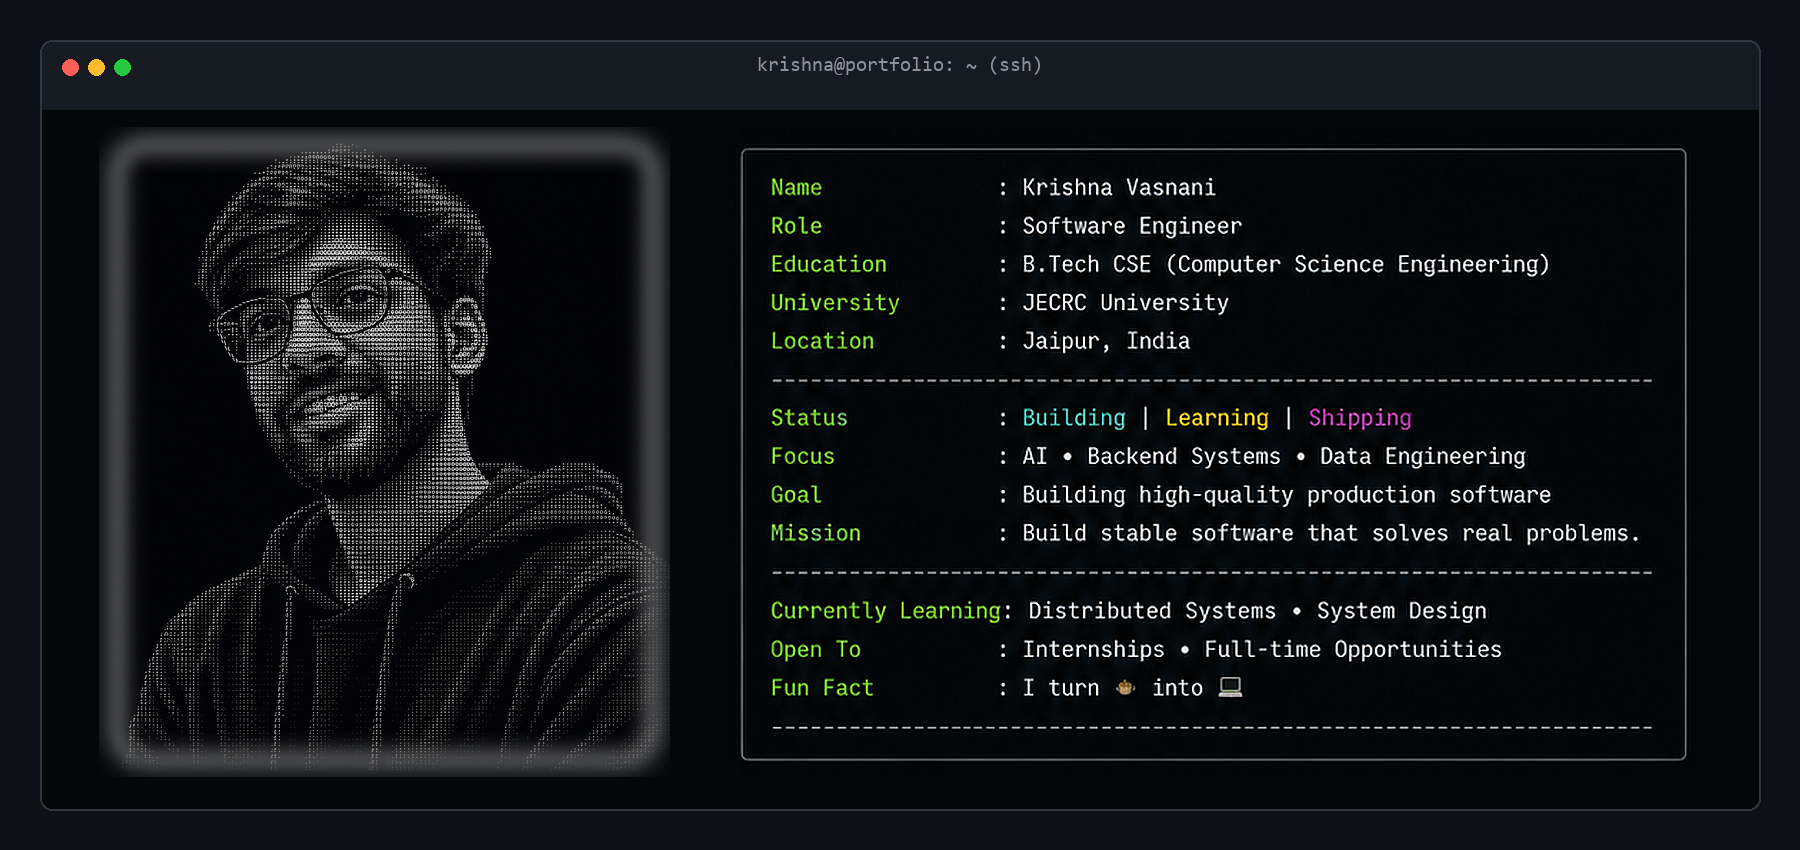
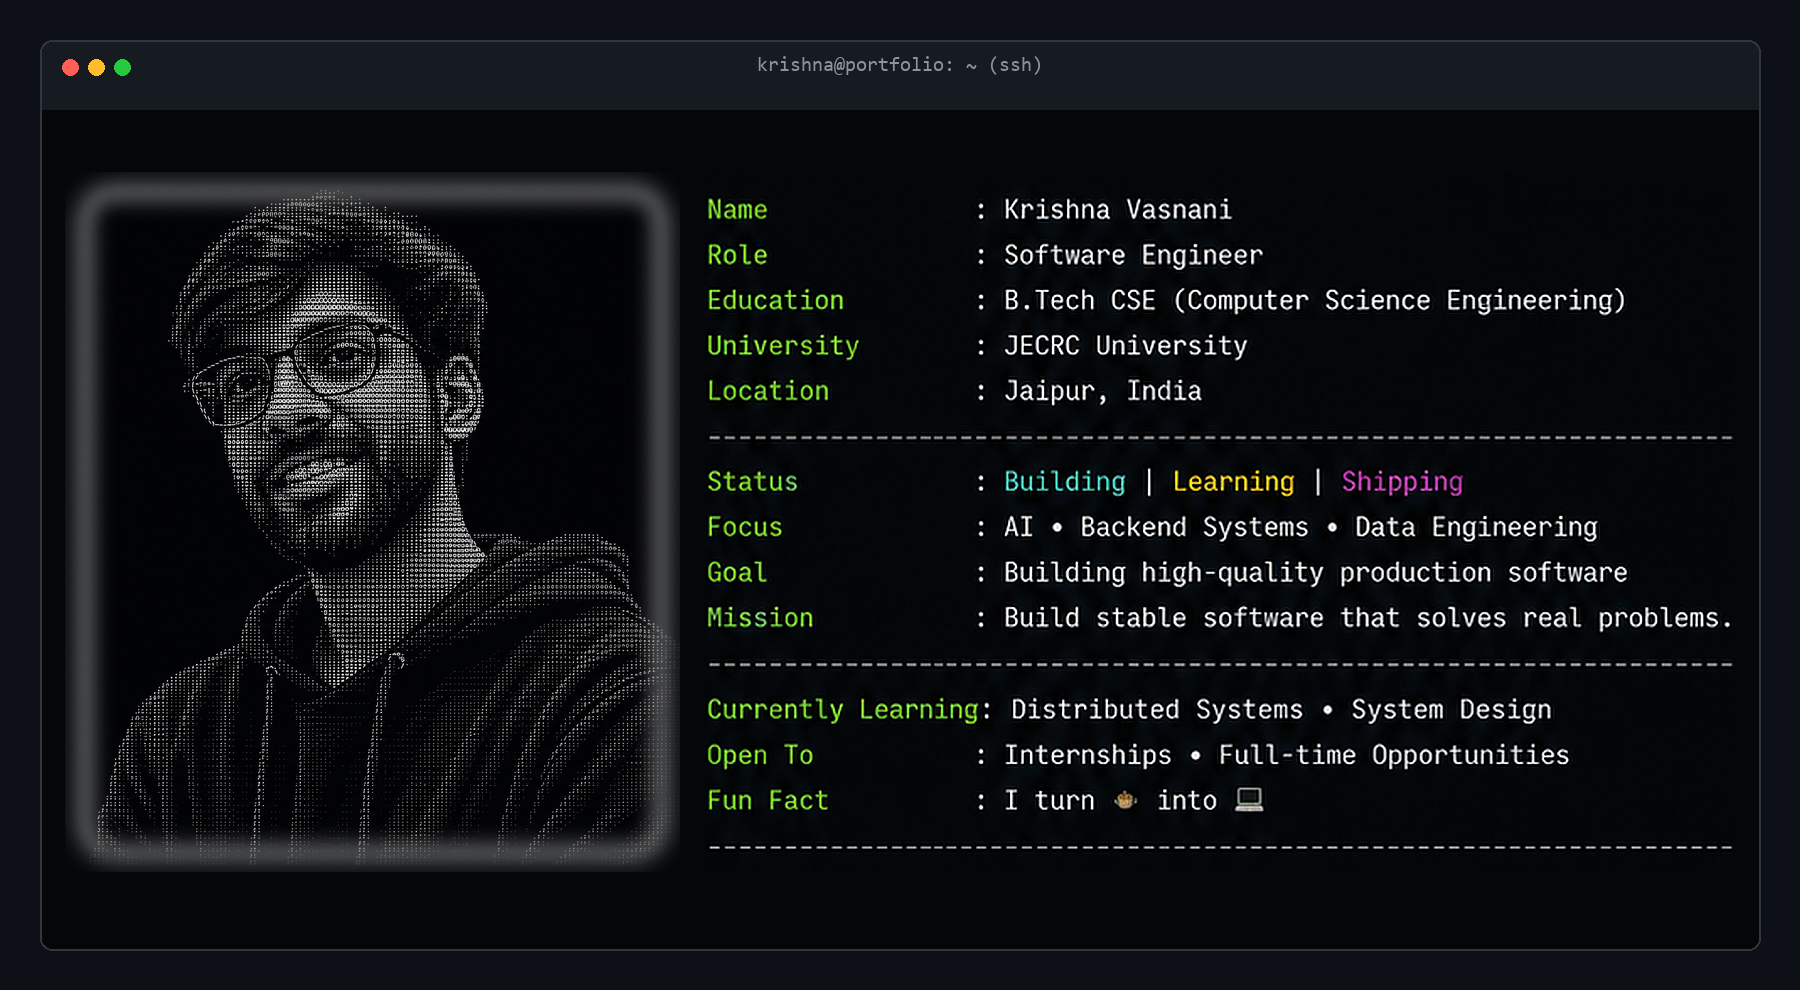
Optimize terminal hero size, remove code block gray backgrounds in README

Changed region(s): [[0.0311, 0.0306, 0.9956, 0.9176], [0.0311, 0.9482, 0.9644, 0.9788], [0.4356, 0.8871, 0.9333, 0.9176]]

diff --git a/README.md b/README.md
@@ -4,82 +4,92 @@
 
 ---
 
-<pre>
-<b>krishna@portfolio:~$</b> tree projects/ --level=2
+<font face="monospace">
+<br/>
+<b>krishna@portfolio:~$</b>&nbsp;tree&nbsp;projects/&nbsp;--level=2<br/>
+<br/>
+<b>projects/</b><br/>
+├──&nbsp;📊&nbsp;<b>n100-financial-intelligence-platform</b><br/>
+│&nbsp;&nbsp;&nbsp;├──&nbsp;Ingests&nbsp;raw&nbsp;equity&nbsp;filings,&nbsp;runs&nbsp;16&nbsp;data&nbsp;quality&nbsp;rules,&nbsp;computes&nbsp;50+&nbsp;KPIs.<br/>
+│&nbsp;&nbsp;&nbsp;├──&nbsp;Tech:&nbsp;Python&nbsp;•&nbsp;SQLite&nbsp;•&nbsp;Streamlit&nbsp;•&nbsp;Pandas&nbsp;•&nbsp;Pytest<br/>
+│&nbsp;&nbsp;&nbsp;└──&nbsp;Link:&nbsp;<a href="https://github.com/krishnavasnani07/n100-financial-intelligence-platform">github.com/krishnavasnani07/n100-financial-intelligence-platform</a><br/>
+│<br/>
+├──&nbsp;📈&nbsp;<b>fundsight-mutual-fund-analytics</b><br/>
+│&nbsp;&nbsp;&nbsp;├──&nbsp;High-performance&nbsp;mutual&nbsp;fund&nbsp;analytics&nbsp;database&nbsp;with&nbsp;transaction-safe&nbsp;ETL.<br/>
+│&nbsp;&nbsp;&nbsp;├──&nbsp;Tech:&nbsp;Python&nbsp;•&nbsp;SQLite&nbsp;•&nbsp;Streamlit&nbsp;•&nbsp;FastAPI&nbsp;•&nbsp;Pandas<br/>
+│&nbsp;&nbsp;&nbsp;└──&nbsp;Link:&nbsp;<a href="https://github.com/krishnavasnani07/fundsight-mutual-fund-analytics">github.com/krishnavasnani07/fundsight-mutual-fund-analytics</a><br/>
+│<br/>
+├──&nbsp;👁&nbsp;<b>second-pair-of-eyes</b><br/>
+│&nbsp;&nbsp;&nbsp;├──&nbsp;Edge&nbsp;TF.js&nbsp;detection&nbsp;&amp;&nbsp;Gemini&nbsp;Vision&nbsp;API&nbsp;cloud&nbsp;safety&nbsp;alerts.<br/>
+│&nbsp;&nbsp;&nbsp;├──&nbsp;Tech:&nbsp;TensorFlow.js&nbsp;•&nbsp;Gemini&nbsp;API&nbsp;•&nbsp;FastAPI&nbsp;•&nbsp;Cloud&nbsp;Run<br/>
+│&nbsp;&nbsp;&nbsp;└──&nbsp;Link:&nbsp;<a href="https://github.com/krishnavasnani07/second-pair-of-eyes">github.com/krishnavasnani07/second-pair-of-eyes</a><br/>
+│<br/>
+└──&nbsp;🎬&nbsp;<b>CinAImatic</b><br/>
+&nbsp;&nbsp;&nbsp;&nbsp;├──&nbsp;Neural&nbsp;network&nbsp;recommendation&nbsp;engine&nbsp;with&nbsp;live&nbsp;training&nbsp;diagnostics.<br/>
+&nbsp;&nbsp;&nbsp;&nbsp;├──&nbsp;Tech:&nbsp;Python&nbsp;•&nbsp;FastAPI&nbsp;•&nbsp;Scikit-Learn&nbsp;•&nbsp;Groq&nbsp;API&nbsp;•&nbsp;Vite<br/>
+&nbsp;&nbsp;&nbsp;&nbsp;└──&nbsp;Link:&nbsp;<a href="https://github.com/krishnavasnani07/CinAImatic">github.com/krishnavasnani07/CinAImatic</a><br/>
 
-<b>projects/</b>
-├── 📊 <b>n100-financial-intelligence-platform</b>
-│   ├── Ingests raw equity filings, runs 16 data quality rules, computes 50+ KPIs.
-│   ├── Tech: Python • SQLite • Streamlit • Pandas • Pytest
-│   └── Link: <a href="https://github.com/krishnavasnani07/n100-financial-intelligence-platform">github.com/krishnavasnani07/n100-financial-intelligence-platform</a>
-│
-├── 📈 <b>fundsight-mutual-fund-analytics</b>
-│   ├── High-performance mutual fund analytics database with transaction-safe ETL.
-│   ├── Tech: Python • SQLite • Streamlit • FastAPI • Pandas
-│   └── Link: <a href="https://github.com/krishnavasnani07/fundsight-mutual-fund-analytics">github.com/krishnavasnani07/fundsight-mutual-fund-analytics</a>
-│
-├── 👁 <b>second-pair-of-eyes</b>
-│   ├── Edge TF.js detection &amp; Gemini Vision API cloud safety alerts.
-│   ├── Tech: TensorFlow.js • Gemini API • FastAPI • Cloud Run
-│   └── Link: <a href="https://github.com/krishnavasnani07/second-pair-of-eyes">github.com/krishnavasnani07/second-pair-of-eyes</a>
-│
-└── 🎬 <b>CinAImatic</b>
-    ├── Neural network recommendation engine with live training diagnostics.
-    ├── Tech: Python • FastAPI • Scikit-Learn • Groq API • Vite
-    └── Link: <a href="https://github.com/krishnavasnani07/CinAImatic">github.com/krishnavasnani07/CinAImatic</a>
-</pre>
-
----
-
-<pre>
-<b>krishna@portfolio:~$</b> cat stack.conf
-
-<b>[Languages]</b>
-  └── Python • C++ • JavaScript • SQL
-
-<b>[Backend &amp; Storage]</b>
-  └── FastAPI • SQLite • Pandas • NumPy • WebSockets
-
-<b>[Frontend &amp; UI]</b>
-  └── Streamlit • Vite • TailwindCSS • HTML/CSS
-
-<b>[AI &amp; Machine Learning]</b>
-  └── Scikit-Learn • TensorFlow.js • Gemini API • Groq API
-
-<b>[Cloud &amp; DevOps]</b>
-  └── Google Cloud Run • Docker • Git • Pytest
-</pre>
+</font>
 
 ---
 
-<pre>
-<b>krishna@portfolio:~$</b> git status
+<font face="monospace">
+<br/>
+<b>krishna@portfolio:~$</b>&nbsp;cat&nbsp;stack.conf<br/>
+<br/>
+<b>[Languages]</b><br/>
+&nbsp;&nbsp;└──&nbsp;Python&nbsp;•&nbsp;C++&nbsp;•&nbsp;JavaScript&nbsp;•&nbsp;SQL<br/>
+<br/>
+<b>[Backend&nbsp;&amp;&nbsp;Storage]</b><br/>
+&nbsp;&nbsp;└──&nbsp;FastAPI&nbsp;•&nbsp;SQLite&nbsp;•&nbsp;Pandas&nbsp;•&nbsp;NumPy&nbsp;•&nbsp;WebSockets<br/>
+<br/>
+<b>[Frontend&nbsp;&amp;&nbsp;UI]</b><br/>
+&nbsp;&nbsp;└──&nbsp;Streamlit&nbsp;•&nbsp;Vite&nbsp;•&nbsp;TailwindCSS&nbsp;•&nbsp;HTML/CSS<br/>
+<br/>
+<b>[AI&nbsp;&amp;&nbsp;Machine&nbsp;Learning]</b><br/>
+&nbsp;&nbsp;└──&nbsp;Scikit-Learn&nbsp;•&nbsp;TensorFlow.js&nbsp;•&nbsp;Gemini&nbsp;API&nbsp;•&nbsp;Groq&nbsp;API<br/>
+<br/>
+<b>[Cloud&nbsp;&amp;&nbsp;DevOps]</b><br/>
+&nbsp;&nbsp;└──&nbsp;Google&nbsp;Cloud&nbsp;Run&nbsp;•&nbsp;Docker&nbsp;•&nbsp;Git&nbsp;•&nbsp;Pytest<br/>
 
-On branch main
-Your branch is up to date with 'origin/main'.
-
-Changes to be committed:
-  (use "git restore --staged <file>..." to unstage)
-
-	<span style="color: #2ea44f;">modified:   profile_assets/profile.jpg</span>
-	<span style="color: #2ea44f;">modified:   krishnavasnani07/README.md</span>
-
-Status: Building new intelligent systems... 🚀
-</pre>
-
----
-
-<pre>
-<b>krishna@portfolio:~$</b> connect --active
-
-<b>Email</b>............. <a href="mailto:krishnavasnani07@gmail.com">krishnavasnani07@gmail.com</a>
-<b>LinkedIn</b>.......... <a href="https://www.linkedin.com/in/krishna-vasnani-490334325">linkedin.com/in/krishna-vasnani-490334325</a>
-<b>GitHub</b>............ <a href="https://github.com/krishnavasnani07">github.com/krishnavasnani07</a>
-</pre>
+</font>
 
 ---
 
-<pre>
-<b>krishna@portfolio:~$</b> echo "Let's build something awesome."
-Let's build something awesome. ▮
-</pre>
+<font face="monospace">
+<br/>
+<b>krishna@portfolio:~$</b>&nbsp;git&nbsp;status<br/>
+<br/>
+On&nbsp;branch&nbsp;main<br/>
+Your&nbsp;branch&nbsp;is&nbsp;up&nbsp;to&nbsp;date&nbsp;with&nbsp;'origin/main'.<br/>
+<br/>
+Changes&nbsp;to&nbsp;be&nbsp;committed:<br/>
+&nbsp;&nbsp;(use&nbsp;"git&nbsp;restore&nbsp;--staged&nbsp;&lt;file&gt;..."&nbsp;to&nbsp;unstage)<br/>
+<br/>
+	<span style="color: #2ea44f;">modified:&nbsp;&nbsp;&nbsp;profile_assets/profile.jpg</span><br/>
+	<span style="color: #2ea44f;">modified:&nbsp;&nbsp;&nbsp;krishnavasnani07/README.md</span><br/>
+<br/>
+Status:&nbsp;Building&nbsp;new&nbsp;intelligent&nbsp;systems...&nbsp;🚀<br/>
+
+</font>
+
+---
+
+<font face="monospace">
+<br/>
+<b>krishna@portfolio:~$</b>&nbsp;connect&nbsp;--active<br/>
+<br/>
+<b>Email</b>.............&nbsp;<a href="mailto:krishnavasnani07@gmail.com">krishnavasnani07@gmail.com</a><br/>
+<b>LinkedIn</b>..........&nbsp;<a href="https://www.linkedin.com/in/krishna-vasnani-490334325">linkedin.com/in/krishna-vasnani-490334325</a><br/>
+<b>GitHub</b>............&nbsp;<a href="https://github.com/krishnavasnani07">github.com/krishnavasnani07</a><br/>
+
+</font>
+
+---
+
+<font face="monospace">
+<br/>
+<b>krishna@portfolio:~$</b>&nbsp;echo&nbsp;"Let's&nbsp;build&nbsp;something&nbsp;awesome."<br/>
+Let's&nbsp;build&nbsp;something&nbsp;awesome.&nbsp;▮<br/>
+
+</font>
